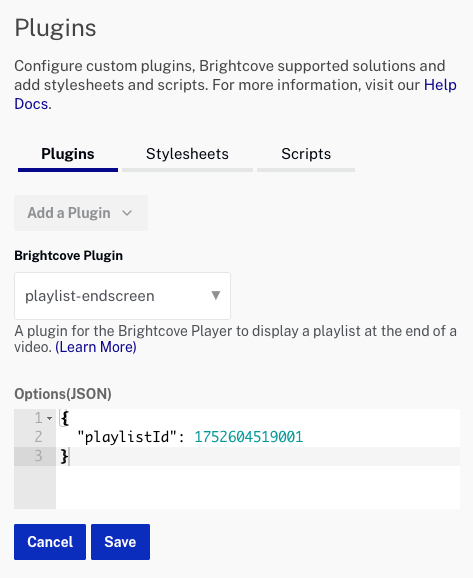
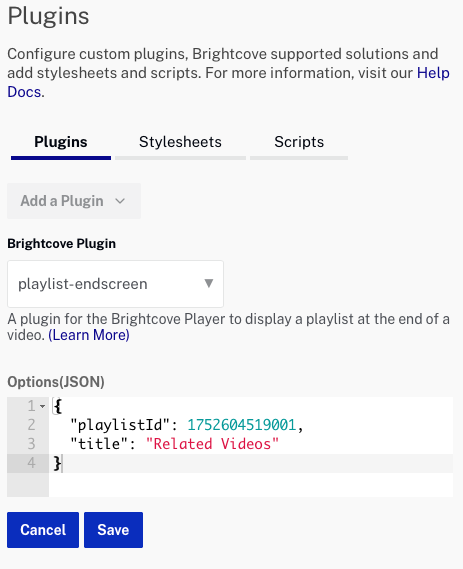
updates

diff --git a/_site/players/configuring-playlist-endscreen-using-plugin.html b/_site/players/configuring-playlist-endscreen-using-plugin.html
@@ -3,7 +3,6 @@
 
 <head>
   <meta charset="utf-8">
-  <meta name="robots" content="noindex,nofollow"> 
   <meta name="viewport" content="width=device-width, initial-scale=1, shrink-to-fit=no">
   <meta name="description" content="">
   
@@ -12,6 +11,7 @@
   <link rel="icon" type="image/png" sizes="32x32" href="/favicon-32x32.png">
   <link rel="icon" type="image/png" sizes="16x16" href="/favicon-16x16.png">
   <link rel="manifest" href="/site.webmanifest">  
+  <link data-react-helmet="true" rel="preload" as="style" href="https://fonts.googleapis.com/css2?family=Public+Sans:wght@400;500&display=swap">
   <link rel="stylesheet" href="https://stackpath.bootstrapcdn.com/bootstrap/4.3.1/css/bootstrap.min.css" integrity="sha384-ggOyR0iXCbMQv3Xipma34MD+dH/1fQ784/j6cY/iJTQUOhcWr7x9JvoRxT2MZw1T" crossorigin="anonymous">
   <link rel="stylesheet" href="https://support.brightcove.com/site-assets/css/site/prism.css">
   <link rel="stylesheet" href="https://support.brightcove.com/site-assets/css/site/styles.css">
@@ -993,12 +993,12 @@ function doGTranslate(lang_pair) {if(lang_pair.value)lang_pair=lang_pair.value;i
   <h1>Configuring a Playlist Endscreen Using the playlist-endscreen Plugin</h1>
   <summary>In this topic you will learn how you can add a playlist endscreen to a player using the playlist-endscreen plugin.</summary>
   <section class="bcls-section">
-    <p class="BCL-objective">The <span translate="No">playlist-endscreen</span> plugin allows a playlist of videos to be displayed on the player endscreen. The viewer can then click on a video thumbnail image to watch another video. In this player, a player endscreen has been configured.</p>
+    <p class="BCL-objective">The <span translate="No">playlist-endscreen</span> plugin allows a playlist of videos to be displayed on the player endscreen. The viewer can then click on a video thumbnail image to watch another video. In this player, a playlist endscreen has been configured.</p>
     <p>
       <iframe src="//players.brightcove.net/1752604059001/noMlYptKE_default/index.html?videoId=4817237857001" allowfullscreen="" webkitallowfullscreen="" mozallowfullscreen="" style="width: 640px; height: 360px;"></iframe>
     </p>
     <p>For information about other options for player endscreens, see <a href="configuring-player-endscreen.html">Configuring the Player Endscreen</a>.</p>
-    <aside class="bcls-aside bcls-aside--information">Note: For information on configuring player overlays programmatically, see the <a href="https://player.support.brightcove.com/plugins/display-overlay-plugin.html">developer documentation</a>.</aside>
+    <aside class="bcls-aside bcls-aside--information">Note: For information on configuring a playlist endscreen programmatically, see the <a href="https://player.support.brightcove.com/plugins/playlist-endscreen-plugin.html">developer documentation</a>.</aside>
   </section>
   <section class="bcls-section">
     <h2 id="configure">Configuring the playlist-endscreen plugin</h2>
@@ -1009,14 +1009,25 @@ function doGTranslate(lang_pair) {if(lang_pair.value)lang_pair=lang_pair.value;i
       <li>Click <strong>Plugins</strong> in the left navigation.</li>
       <li>Click <strong>Add a Plugin &gt; Brightcove Plugin</strong>.</li>
       <li>For the <strong>Brightcove Plugin</strong>, select <strong translate="No">playlist-endscreen</strong>.</li>
-      <li>The playlist to display is configured by adding the playlist ID to the <strong>Options(JSON)</strong>. The example shows how to configure the Options(JSON) to pass the playlist ID to display.
+      <li>The <strong>Options(JSON)</strong> contains the
+        <ul>
+          <li><strong>playlistId</strong> - ID of playlist to display on the endscreen</li>
+          <li><strong>title</strong> (optional) - Title to display above the list of videos</li>
+        </ul>
+      </li>
+      <blockquote>
         <pre><code translate="No">
 {
-  &quot;playlistId": 1234567001
+  &quot;playlistId": 1234567001,
+  &quot;title&quot;: &quot;Related Videos&quot;
 }</code></pre>
-        <figure class="bcls-figure"><img class="bcls-image--no-border" alt="" src="/assets/images/players/node16311-overlay-plugin.png" /></figure>
-      </li>
-      <li>Click <strong>Save</strong> and <strong>Publish</strong> the player. Note that it may take up to 5 minutes for the changes to appear in published players.</li>
+      </blockquote>
+      <figure class="bcls-figure">
+        <blockquote>
+          <p><img class="bcls-image--no-border" alt="" src="/assets/images/players/playlist-endscreen-settings.png" /></p>
+        </blockquote>
+      </figure>
+      <li>Click <strong>Save</strong> and then <strong>Publish</strong> the player. Note that it may take up to 5 minutes for the changes to appear in published players.</li>
     </ol>
   </section>
 </article>
@@ -1036,7 +1047,7 @@ function doGTranslate(lang_pair) {if(lang_pair.value)lang_pair=lang_pair.value;i
 
 <hr>
 <div class="last-updated">
-  Page last updated on 19 May 2021
+  Page last updated on 20 May 2021
 </div>
 
 

diff --git a/players/configuring-playlist-endscreen-using-plugin.html b/players/configuring-playlist-endscreen-using-plugin.html
@@ -6,12 +6,12 @@ parent: Managing Players
   <h1>Configuring a Playlist Endscreen Using the playlist-endscreen Plugin</h1>
   <summary>In this topic you will learn how you can add a playlist endscreen to a player using the playlist-endscreen plugin.</summary>
   <section class="bcls-section">
-    <p class="BCL-objective">The <span translate="No">playlist-endscreen</span> plugin allows a playlist of videos to be displayed on the player endscreen. The viewer can then click on a video thumbnail image to watch another video. In this player, a player endscreen has been configured.</p>
+    <p class="BCL-objective">The <span translate="No">playlist-endscreen</span> plugin allows a playlist of videos to be displayed on the player endscreen. The viewer can then click on a video thumbnail image to watch another video. In this player, a playlist endscreen has been configured.</p>
     <p>
       <iframe src="//players.brightcove.net/1752604059001/noMlYptKE_default/index.html?videoId=4817237857001" allowfullscreen="" webkitallowfullscreen="" mozallowfullscreen="" style="width: 640px; height: 360px;"></iframe>
     </p>
     <p>For information about other options for player endscreens, see <a href="configuring-player-endscreen.html">Configuring the Player Endscreen</a>.</p>
-    <aside class="bcls-aside bcls-aside--information">Note: For information on configuring player overlays programmatically, see the <a href="https://player.support.brightcove.com/plugins/display-overlay-plugin.html">developer documentation</a>.</aside>
+    <aside class="bcls-aside bcls-aside--information">Note: For information on configuring a playlist endscreen programmatically, see the <a href="https://player.support.brightcove.com/plugins/playlist-endscreen-plugin.html">developer documentation</a>.</aside>
   </section>
   <section class="bcls-section">
     <h2 id="configure">Configuring the playlist-endscreen plugin</h2>
@@ -22,14 +22,25 @@ parent: Managing Players
       <li>Click <strong>Plugins</strong> in the left navigation.</li>
       <li>Click <strong>Add a Plugin &gt; Brightcove Plugin</strong>.</li>
       <li>For the <strong>Brightcove Plugin</strong>, select <strong translate="No">playlist-endscreen</strong>.</li>
-      <li>The playlist to display is configured by adding the playlist ID to the <strong>Options(JSON)</strong>. The example shows how to configure the Options(JSON) to pass the playlist ID to display.
+      <li>The <strong>Options(JSON)</strong> contains the
+        <ul>
+          <li><strong>playlistId</strong> - ID of playlist to display on the endscreen</li>
+          <li><strong>title</strong> (optional) - Title to display above the list of videos</li>
+        </ul>
+      </li>
+      <blockquote>
         <pre><code translate="No">
 {
-  &quot;playlistId": 1234567001
+  &quot;playlistId": 1234567001,
+  &quot;title&quot;: &quot;Related Videos&quot;
 }</code></pre>
-        <figure class="bcls-figure"><img class="bcls-image--no-border" alt="" src="/assets/images/players/playlist-endscreen-settings.png" /></figure>
-      </li>
-      <li>Click <strong>Save</strong> and  then <strong>Publish</strong> the player. Note that it may take up to 5 minutes for the changes to appear in published players.</li>
+      </blockquote>
+      <figure class="bcls-figure">
+        <blockquote>
+          <p><img class="bcls-image--no-border" alt="" src="/assets/images/players/playlist-endscreen-settings.png" /></p>
+        </blockquote>
+      </figure>
+      <li>Click <strong>Save</strong> and then <strong>Publish</strong> the player. Note that it may take up to 5 minutes for the changes to appear in published players.</li>
     </ol>
   </section>
 </article>
